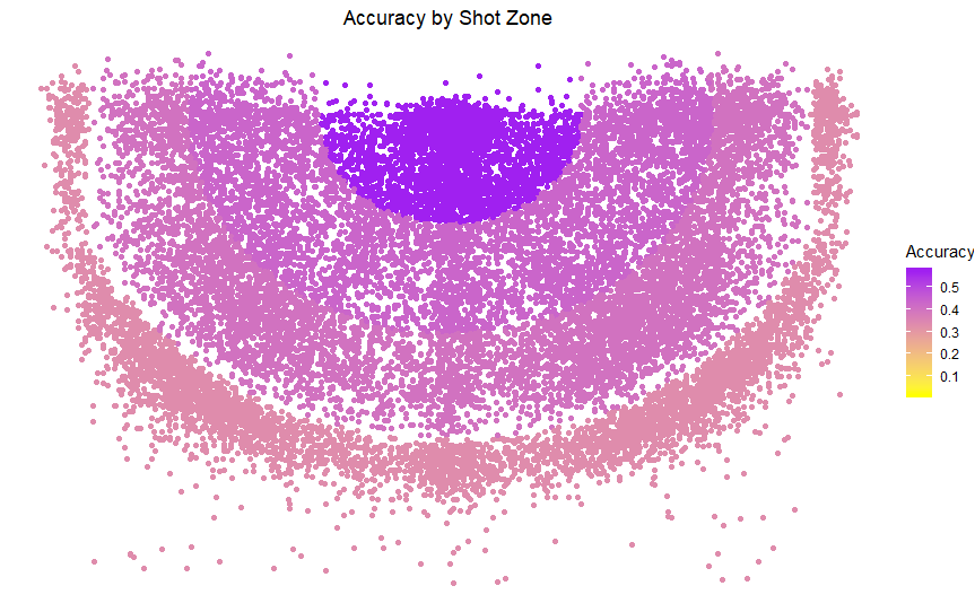
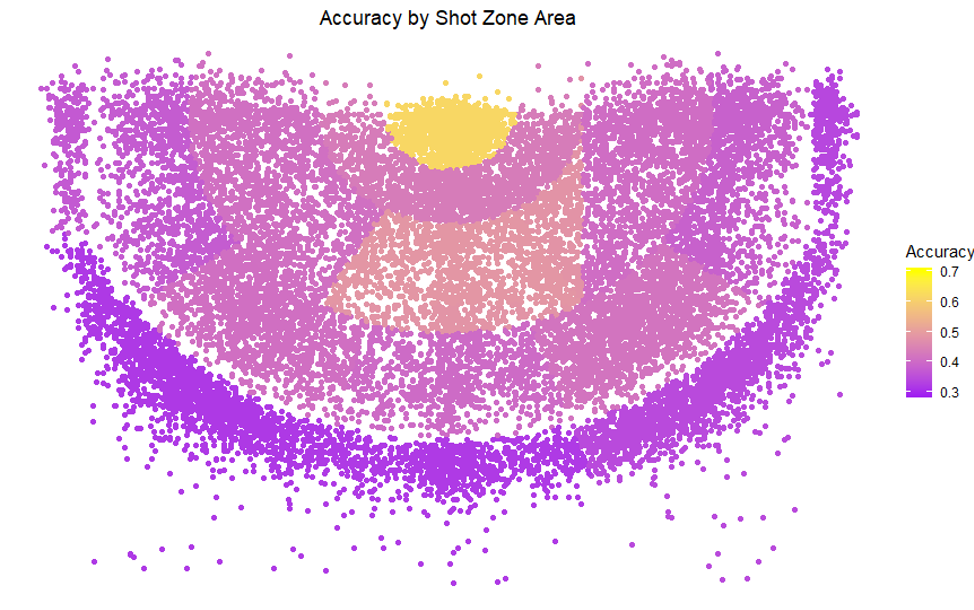
update

diff --git a/_posts/2020-01-28-kobe.md b/_posts/2020-01-28-kobe.md
@@ -10,38 +10,43 @@ category: R
 
 By: Drew Malter, Danny Malter
 
-To reflect on Kobe’s greatness after his tragic passing with his daughter Gigi, we have created several data visualizations to showcase his dominant career using the ggplot2 library in R.  
+To reflect on Kobe’s greatness after his tragic passing with his daughter Gianna, we created several data visualizations to showcase his dominant career using the ggplot2 library in R.  
 
-Below is a shot chart containing all 30,699 shots that he took in his career, separating his makes from his misses.  There’s essentially nowhere on the court that he didn’t like to score from, but he especially excelled from the shoulders and baseline.  
+Below is a shot chart containing all 30,699 shots that he took in his 20-season career from 1996-2016, separating his makes from his misses.  There’s essentially nowhere on the court that he didn’t like to score from, but he especially excelled with his mid-range jumpers from the shoulders and baseline.  Further below you’ll see similar shot charts broken down by type of made shot and average accuracy among different regions on the court. 
+
 
 ![plot of chunk unnamed-chunk-1](/figure/2020-01-28-kobe/image1.png)
 ![plot of chunk unnamed-chunk-2](/figure/2020-01-28-kobe/image2.png)
 ![plot of chunk unnamed-chunk-3](/figure/2020-01-28-kobe/image3.png)
 
-When looking at the frequency of Kobe’s shooting over the course of the game, it’s apparent that the superstar wants the ball as the clock approaches zero.  Kobe often got his rest in the first 6 minutes of each half, accounting for the dips on those regions of the chart.  The below histogram is a chart showing which teams where handed the most late-game daggers from Kobe. 
+When looking at the frequency of Kobe’s shooting over the course of the game, it’s apparent that the superstar wants the ball as the clock approaches zero.  The four tall spikes represent the final minute of each quarter.  Kobe often got his rest in the first 4-6 minutes of the 2nd and 4th quarters, accounting for the dips on those regions of the chart.  Among his game-ending shots taken, the 2nd chart on this page shows which teams suffered the most final second daggers from Kobe.  Amazingly, every team from his era fell victim at least twice. (Vancouver became Memphis in 2001)
 
 ![plot of chunk unnamed-chunk-4](/figure/2020-01-28-kobe/image4.png)
 ![plot of chunk unnamed-chunk-5](/figure/2020-01-28-kobe/image5.png)
 
-Next, we’re looking at the trend of Kobe’s shot accuracy over the course of his career.   Early in his career, he struggled to maintain the same success in the playoffs that he had in the regular season, but that eventually changed as he made his way to his 5 championships.   The most impressive part of these charts, however, is that 17 seasons into his career he was shooting as well as he ever had been. 
+Next, we’re looking at the trend of Kobe’s shot accuracy over the course of his career.  Early in his career, he struggled to maintain the same success in the playoffs that he had in the regular season, but that eventually changed as he made his way to his 5 championships.   The most impressive part of these charts, however, is that 17 seasons into his career he was shooting as well as he ever had been. 
 
 ![plot of chunk unnamed-chunk-6](/figure/2020-01-28-kobe/image6.png)
 ![plot of chunk unnamed-chunk-7](/figure/2020-01-28-kobe/image7.png)
 
-The below three charts compliment what we’ve seen so far, but broken down by opponent, shot type and shot range.   Most of his better numbers came from Western conference teams, perhaps due to less travel, but also likely due to his competitive nature of wanting to dominate his rivals.  However, among all the Eastern conference teams, Kobe always played his best in the spotlight against New York.
+The below three charts compliment what we’ve seen so far, but broken down by opponent and shot type.  Most of his better numbers came from Western conference teams, perhaps due to less travel, but also likely due to his competitive nature of wanting to dominate his rivals.  However, among all the Eastern conference teams, Kobe always played his best in the spotlight against New York.  When it comes to shot type, his smooth touch resulted in a successful bank shot more than three quarters of the time!
 
 ![plot of chunk unnamed-chunk-8](/figure/2020-01-28-kobe/image8.png)
 ![plot of chunk unnamed-chunk-9](/figure/2020-01-28-kobe/image9.png)
+
+The below chart shows the impressive constant shot improvement from Kobe over the course of the season.  Like most NBA players, he does show a slight decline late in the season as the fatigue from his ‘always give 100%’ mentality eventually kicks in.  He also consistently was near the top of the league in games and minutes played.  However, when the playoffs enter the picture, Kobe has historically put his fatigue aside and outperformed his regular-season-self.  The June decline can likely be attributed to only playing the league’s best defenders in the NBA finals.
+
 ![plot of chunk unnamed-chunk-10](/figure/2020-01-28-kobe/image10.png)
 
-The below chart shows the impressive constant shot improvement from Kobe over the course of the season.  Like most NBA players, he does show a slight decline late in the season as the fatigue from his ‘always give 100%’ mentality eventually kicks in.  He also consistently was near the top of the league in games and minutes played.  However, when the playoffs enter the picture, Kobe has historically put his fatigue aside and outperformed his regular-season-self.   The June decline can likely be attributed to a small sample size of playing the leagues best defenders in the NBA finals. 
+When looking at his success distributed over the course of the game, the results are similar in a few ways.  Kobe remains consistent and does show a predictable slight dip in the 4th quarter, but is somehow able to rejuvenate himself for overtime. 
 
 ![plot of chunk unnamed-chunk-11](/figure/2020-01-28-kobe/image11.png)
 
-When looking at his success distributed over the course of the game, the results are similar in a few ways.  Kobe remains consistent and does show a predictable slight dip in the 4th quarter, but is somehow able to rejuvenate himself for overtime.  
+Finally, Kobe Bryant is perhaps best known for always being the hardest worker on the court.  In 2015, even when his shooting numbers had been declining due to his age, his effort on the court remained elite.  The chart and images below show that even at the tail end of his career (12/2/2015 at Washington), Kobe was keeping up with young stars in terms of in-game movement.  The chart shows his total distance traveled in feet relative to the younger athletes and the images show his in-game movement throughout the court and his distance from the ball at any given moment for the first few minutes of the game.
 
 ![plot of chunk unnamed-chunk-12](/figure/2020-01-28-kobe/image12.png)
-
+![plot of chunk unnamed-chunk-13](/figure/2020-01-28-kobe/image13.png)
+![plot of chunk unnamed-chunk-14](/figure/2020-01-28-kobe/image14.png)
 
 {% endraw %}
 
